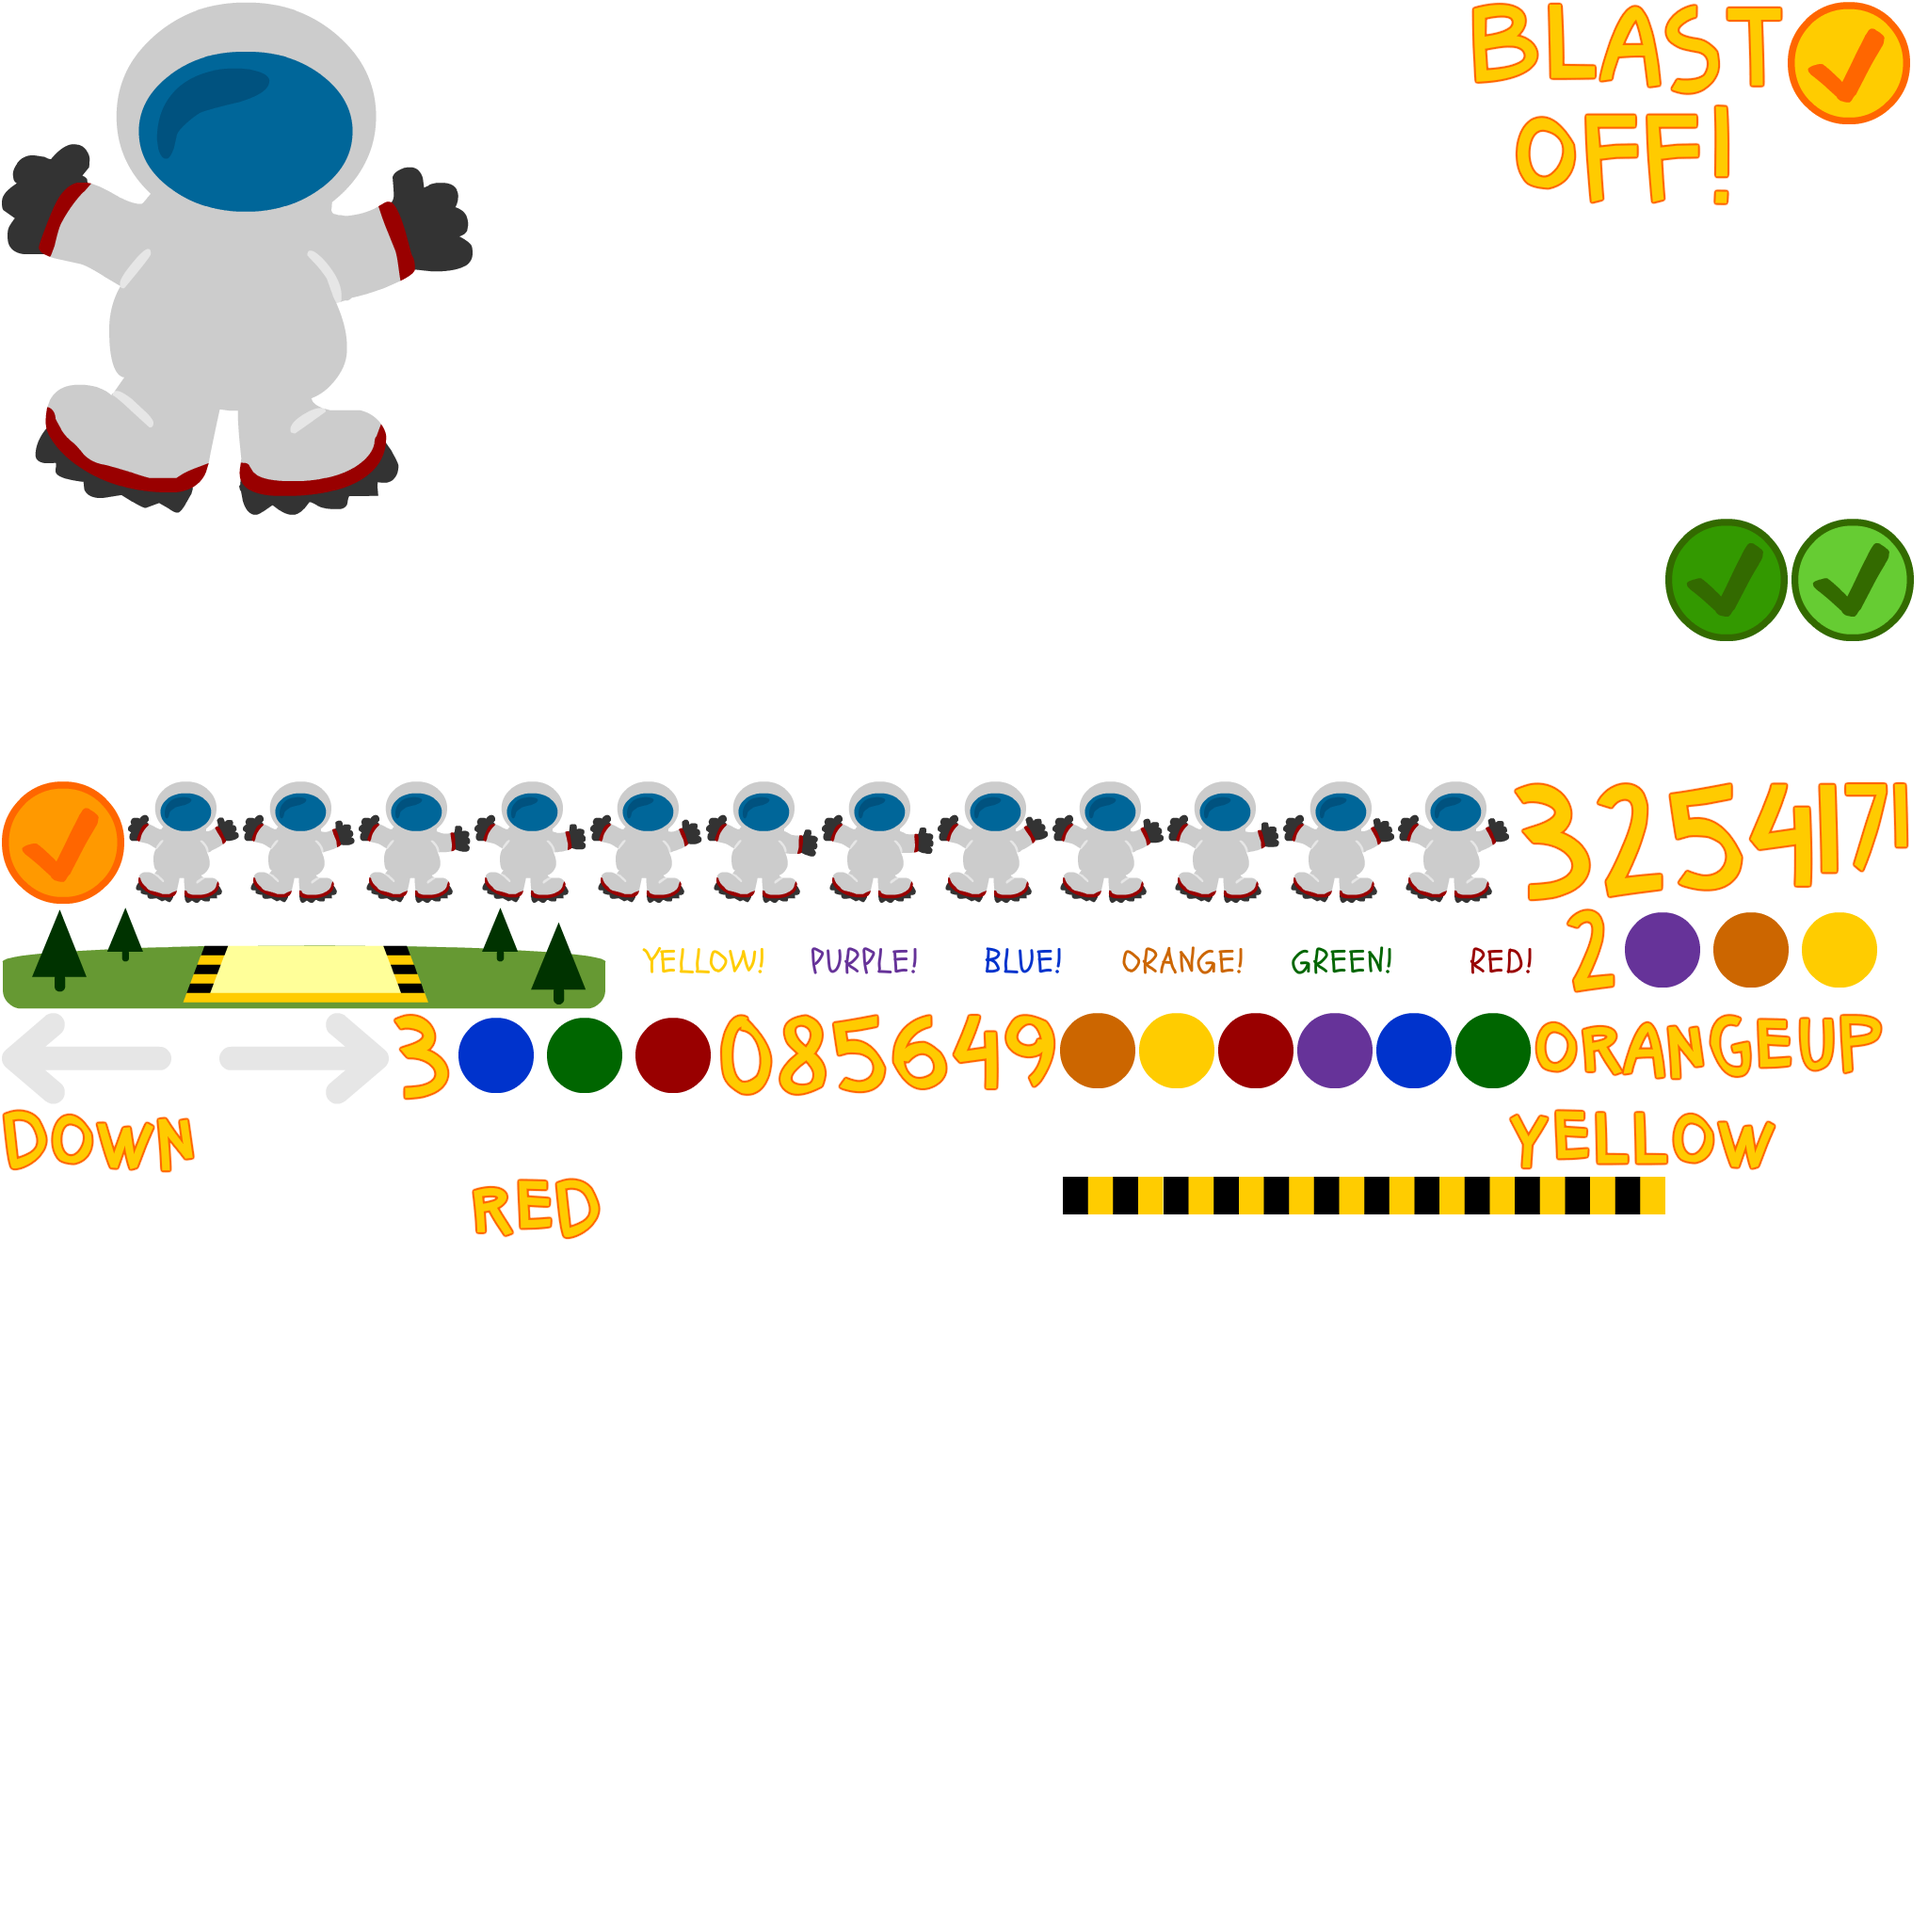
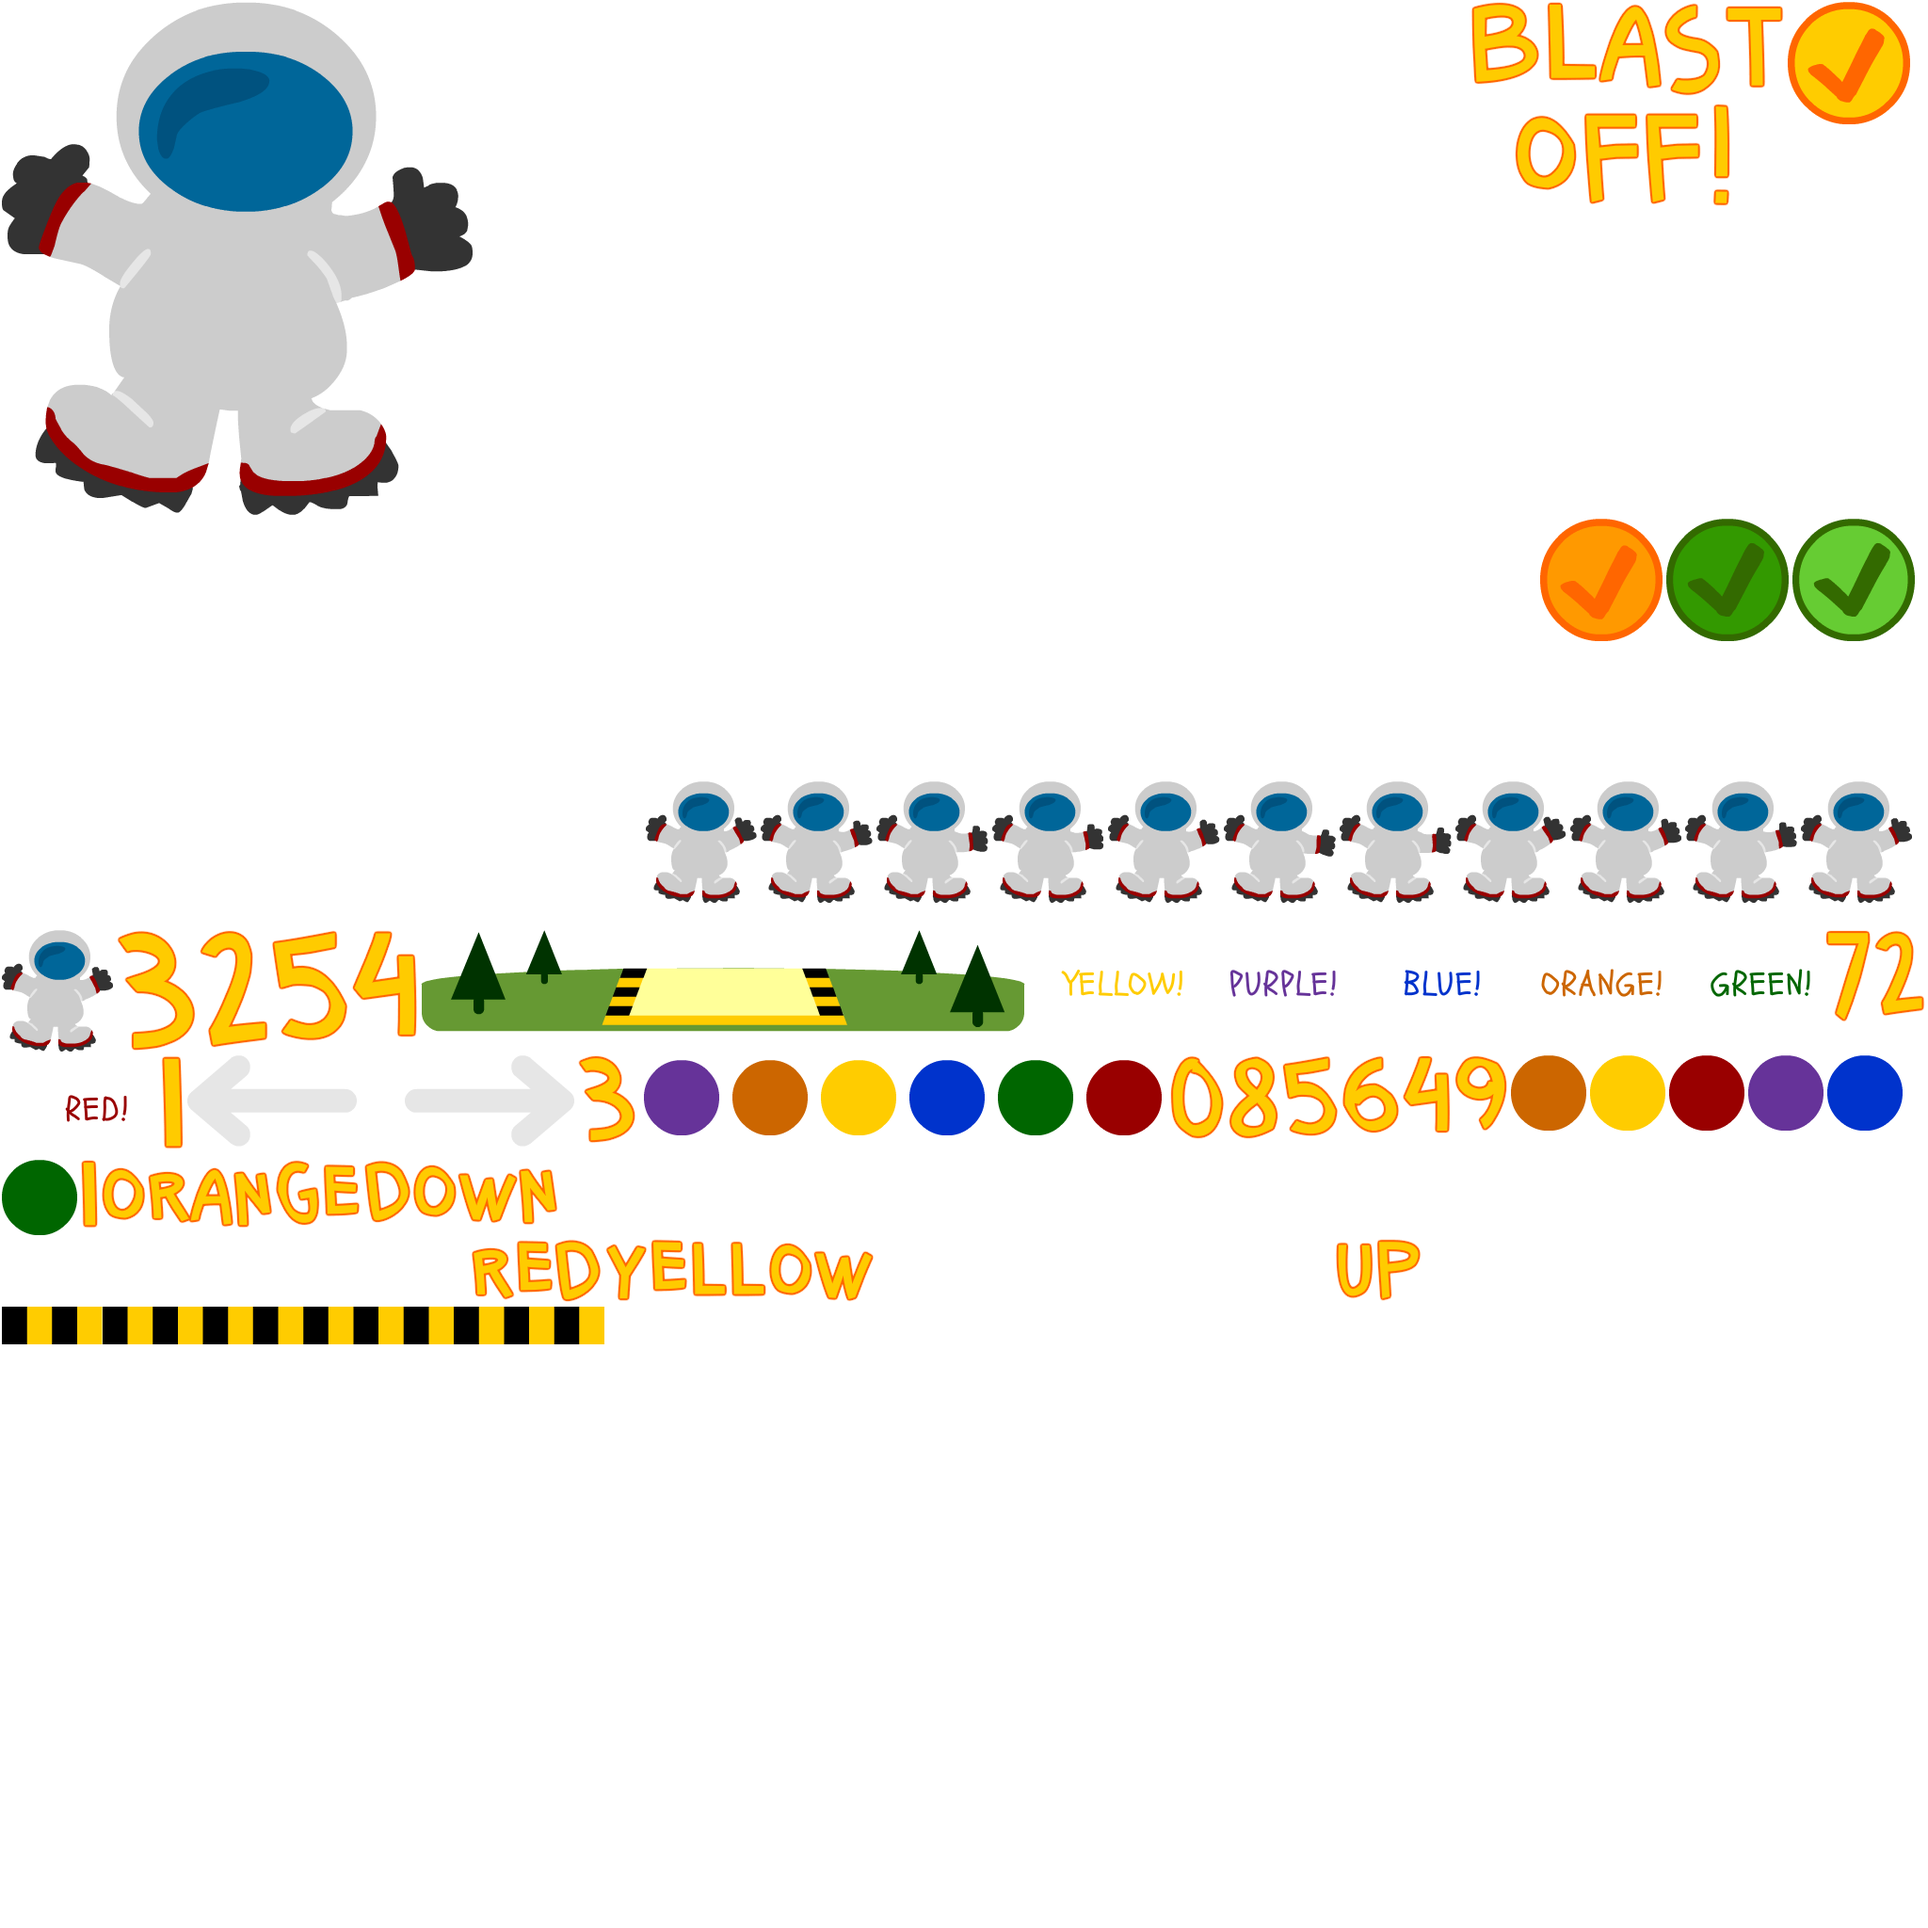
Add instructions for new stage

Changed region(s): [[0.0, 0.4062, 1.0, 0.7188], [0.7812, 0.25, 0.875, 0.3438]]

diff --git a/game.js b/game.js
@@ -176,9 +176,23 @@ function onSetup(e) {
     alienStage = new AlienStage();
     astronautStage = new AstronautStage();
     // populate gameStages array
-    //gameStages = [startStage,instructStage,assemblyStage,colorStage,blastOffStage,instructStage,asteroidStage,instructStage,cometStage,instructStage,alienStage,astronautStage,instructStage];
-    gameStagesNoInstruct = [assemblyStage,colorStage,blastOffStage,asteroidStage,cometStage,alienStage,astronautStage,instructStage];
-    gameStages = [startStage,assemblyStage,colorStage,energyStage];
+    gameStages = [startStage,
+                  instructStage,
+                  assemblyStage,
+                  colorStage,
+                  blastOffStage,
+                  instructStage,
+                  asteroidStage,
+                  instructStage,
+                  cometStage,
+                  instructStage,
+                  alienStage,
+                  instructStage,
+                  energyStage,
+                  astronautStage,
+                  instructStage];
+    gameStagesNoInstruct = [assemblyStage,colorStage,blastOffStage,asteroidStage,cometStage,alienStage,energyStage,astronautStage,instructStage];
+    //gameStages = [startStage,assemblyStage,colorStage,instructStage,instructStage,instructStage,instructStage,instructStage,energyStage];
 
     // setup event listeners for screen flow
     stage.addEventListener("onStageComplete", onStageComplete, true);

diff --git a/InstructStage.js b/InstructStage.js
@@ -91,6 +91,20 @@ var InstructStage = function() {
 
                 break;
             case 5:
+                astronautHead.x = 500;
+                astronautHead.y = 150;
+                astronautHead.rotation = 220;
+                screen.addChild(astronautHead);
+                instructBubble.x = 25;
+                instructBubble.y = 450;
+                instructBubble.gotoAndStop("instructBubble12");
+                btnOk.x = 255;
+                btnOk.y = 795;
+                screen.addChild(instructBubble);
+                createjs.Tween.get(astronautHead,{loop:true}).to({y:astronautHead.y + 20}, 3000).to({y:astronautHead.y}, 3000);
+
+                break;
+            case 6:
                 background.setMoving(true);
                 spaceShip.toggleTurret(true);
                 spaceShip.toggleThrust(true);
@@ -131,7 +145,7 @@ var InstructStage = function() {
 
     this.setExpertMode = function(value){
         // only show the final instructions in expertmode
-        instructSetCount = 5;
+        instructSetCount = 6;
         expertMode = value;
     };
 
@@ -144,7 +158,7 @@ var InstructStage = function() {
         } else {
             btnOk.gotoAndStop("btnOkUp");
 
-            if (instructSetCount === 6) {
+            if (instructSetCount === 7) {
                 // fly spaceship off stage
                 screen.removeChild(btnOk);
                 spaceShip.flyOffStage(onShipOffStage);
